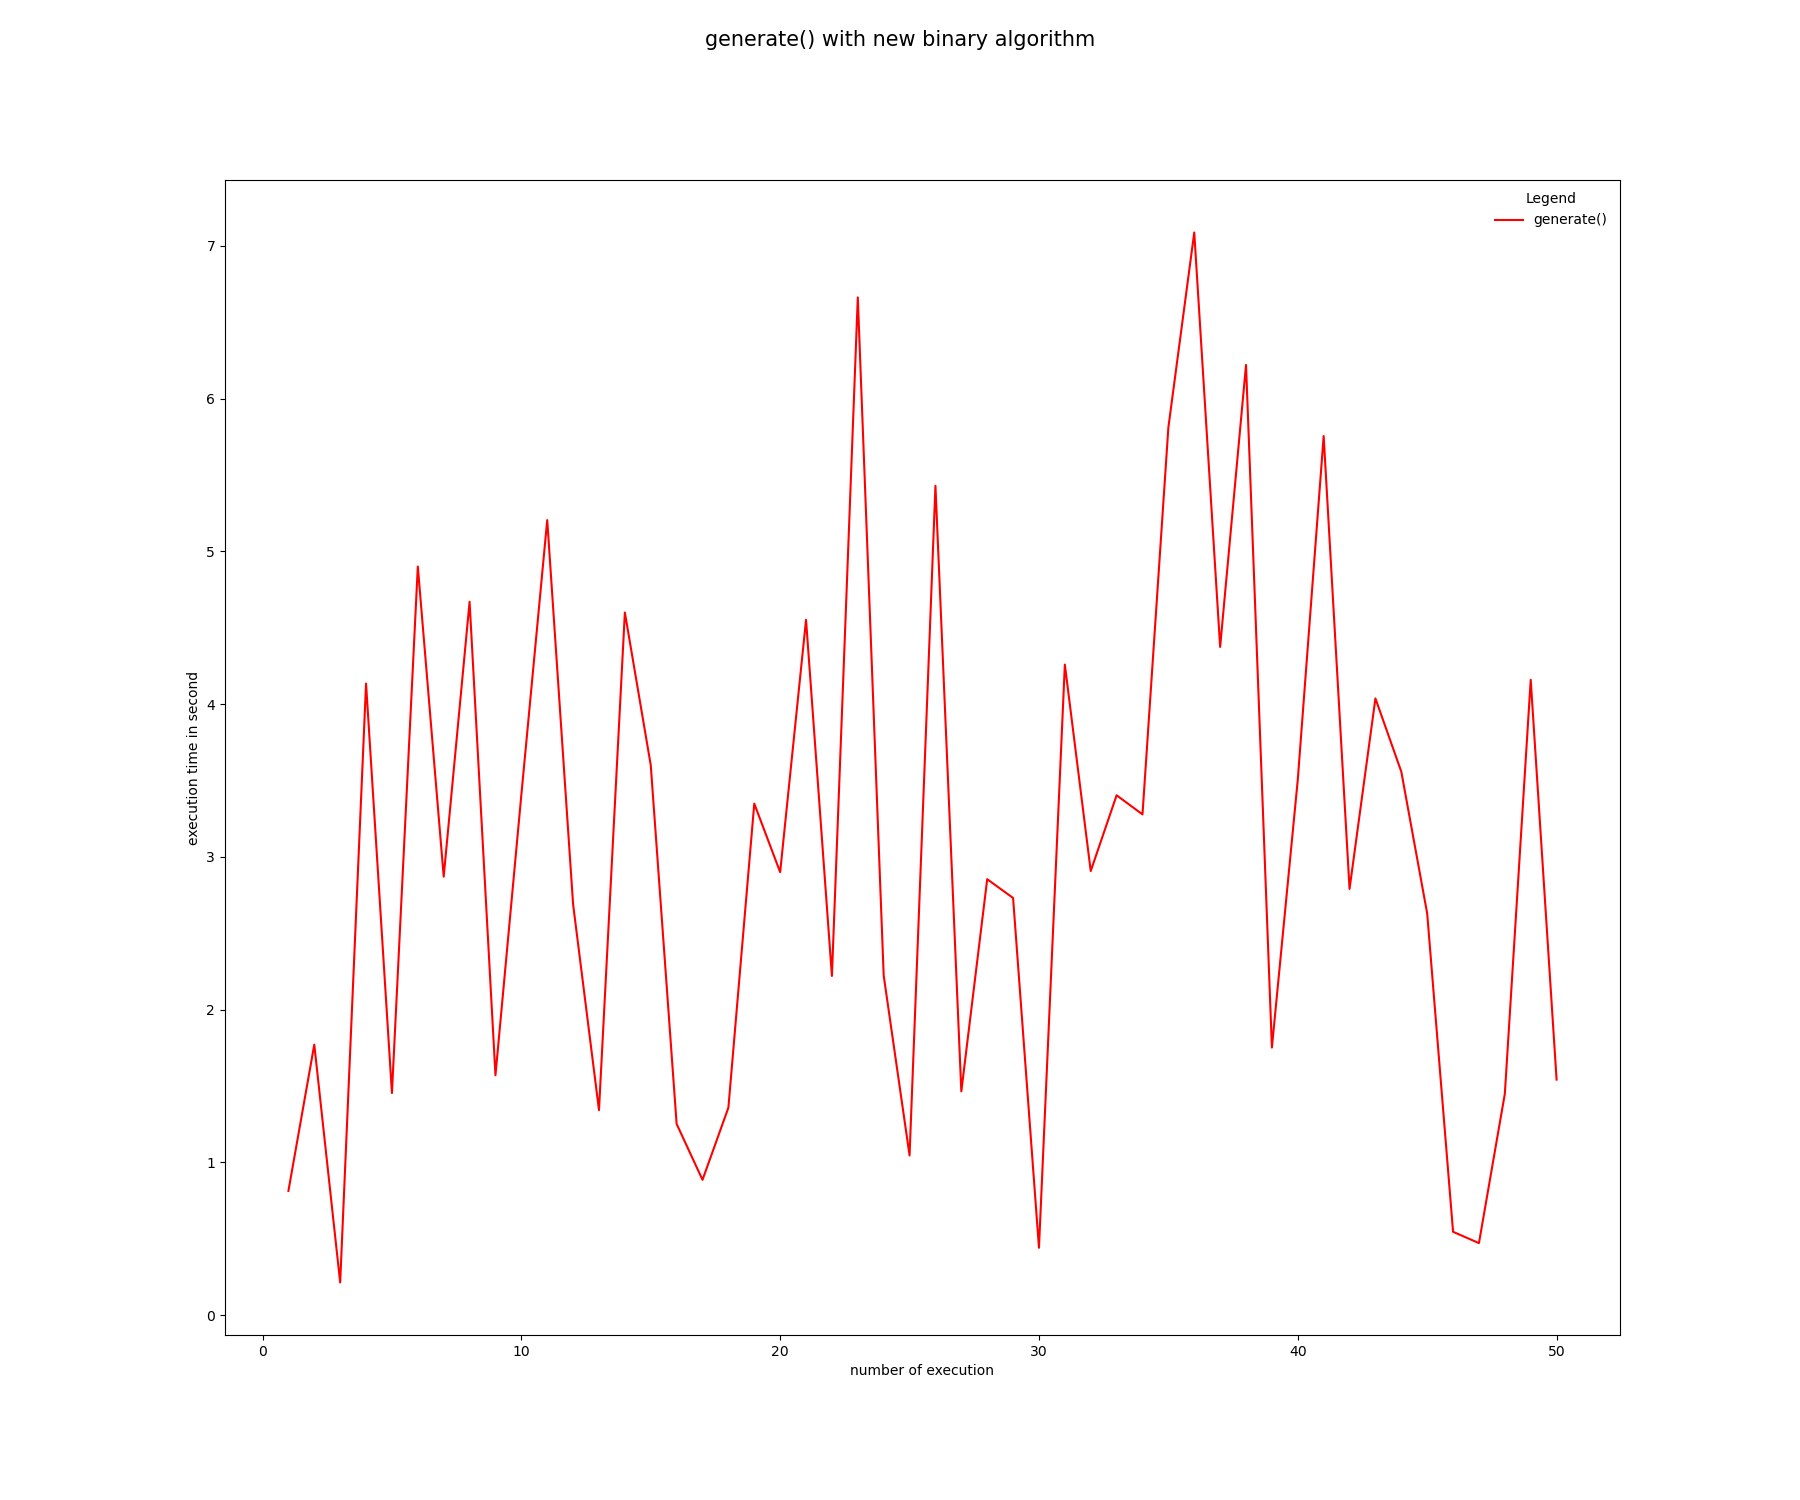
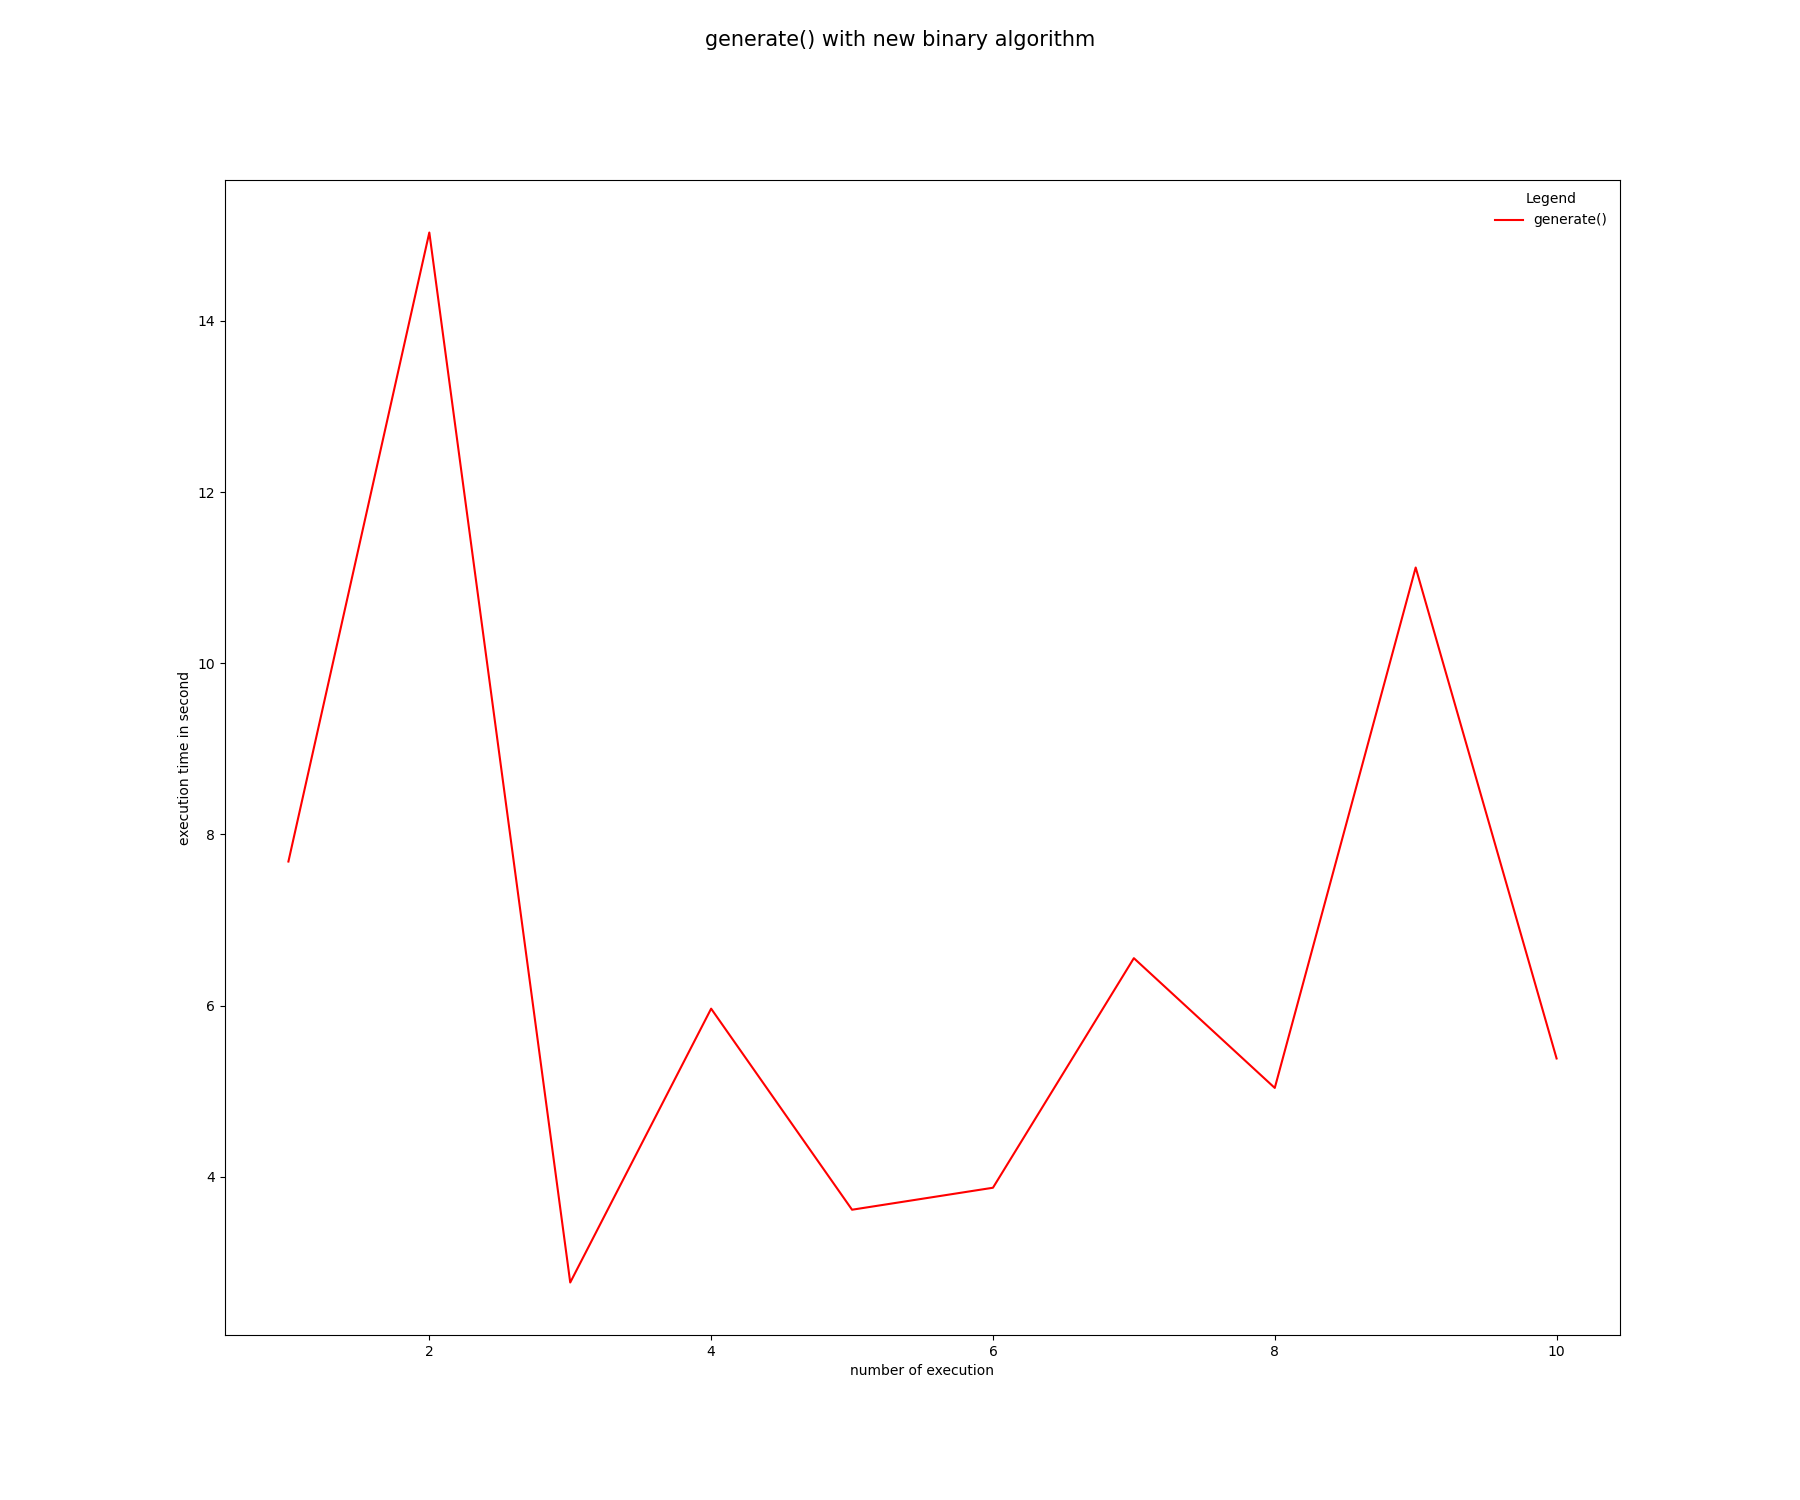
test for a parallel prime_generator, thiking for a code benchmark with cProfile

diff --git a/parallel.py b/parallel.py
@@ -1,0 +1,65 @@
+import random
+import multiprocessing
+
+def miller_rabin(n, k=5):
+    if n <= 1:
+        return False
+    if n <= 3:
+        return True
+
+    # Write n - 1 as 2^r * d
+    r, d = 0, n - 1
+    while d % 2 == 0:
+        r += 1
+        d //= 2
+
+    # Witness loop
+    for _ in range(k):
+        a = random.randint(2, n - 2)
+        x = pow(a, d, n)
+        
+        if x == 1 or x == n - 1:
+            continue
+        
+        for _ in range(r - 1):
+            x = pow(x, 2, n)
+            if x == n - 1:
+                break
+        else:
+            return False
+    
+    return True
+
+def generate_and_test(start, end):
+    prime_candidate = None
+    for _ in range(start, end):
+        num = random.randint(2**63, 2**64 - 1)  # Adjust range as needed
+        if miller_rabin(num):
+            prime_candidate = num
+            break
+    return prime_candidate
+
+def main():
+    num_threads = multiprocessing.cpu_count()  # Number of parallel threads
+    pool = multiprocessing.Pool(processes=num_threads)
+    
+    chunk_size = 1000  # Number of numbers to generate and test per thread
+    ranges = [(i, i + chunk_size) for i in range(0, num_threads * chunk_size, chunk_size)]
+    
+    prime_count = 0
+    prime_numbers = []
+    
+    for prime_candidate in pool.starmap(generate_and_test, ranges):
+        if prime_candidate is not None:
+            prime_numbers.append(prime_candidate)
+            prime_count += 1
+            
+            if prime_count >= 2:
+                pool.terminate()
+                pool.join()
+                return prime_numbers[0], prime_numbers[1]
+    
+    print("No two prime numbers found.")
+
+if __name__ == "__main__":
+    print (main())

diff --git a/test.py b/test.py
@@ -8,9 +8,10 @@ from benchmark.graph import *
 
 
 def simulation():
-    time = get_time(50, 2048)
+    time = get_time(10, 2048)
     make_simple_plot(time, "generate() with new binary algorithm", "generate()", "red")
 
+    """
     time1, time2 = get_time_converting(1000)
     make_n_plot("plot", (time1, time2), "Comparing conversion integer to binary", ("original", "new"), ("red", "green"))
 
@@ -22,7 +23,7 @@ def simulation():
 
     time1, time2, time3 = get_time_gcd(100)
     make_n_plot("point", (time1, time2, time3), "Comparing several gcd function", ("old", "new", "python"), ("red", "green", "purple"))
-    
+    """
 
 if __name__ == "__main__":
     simulation()
